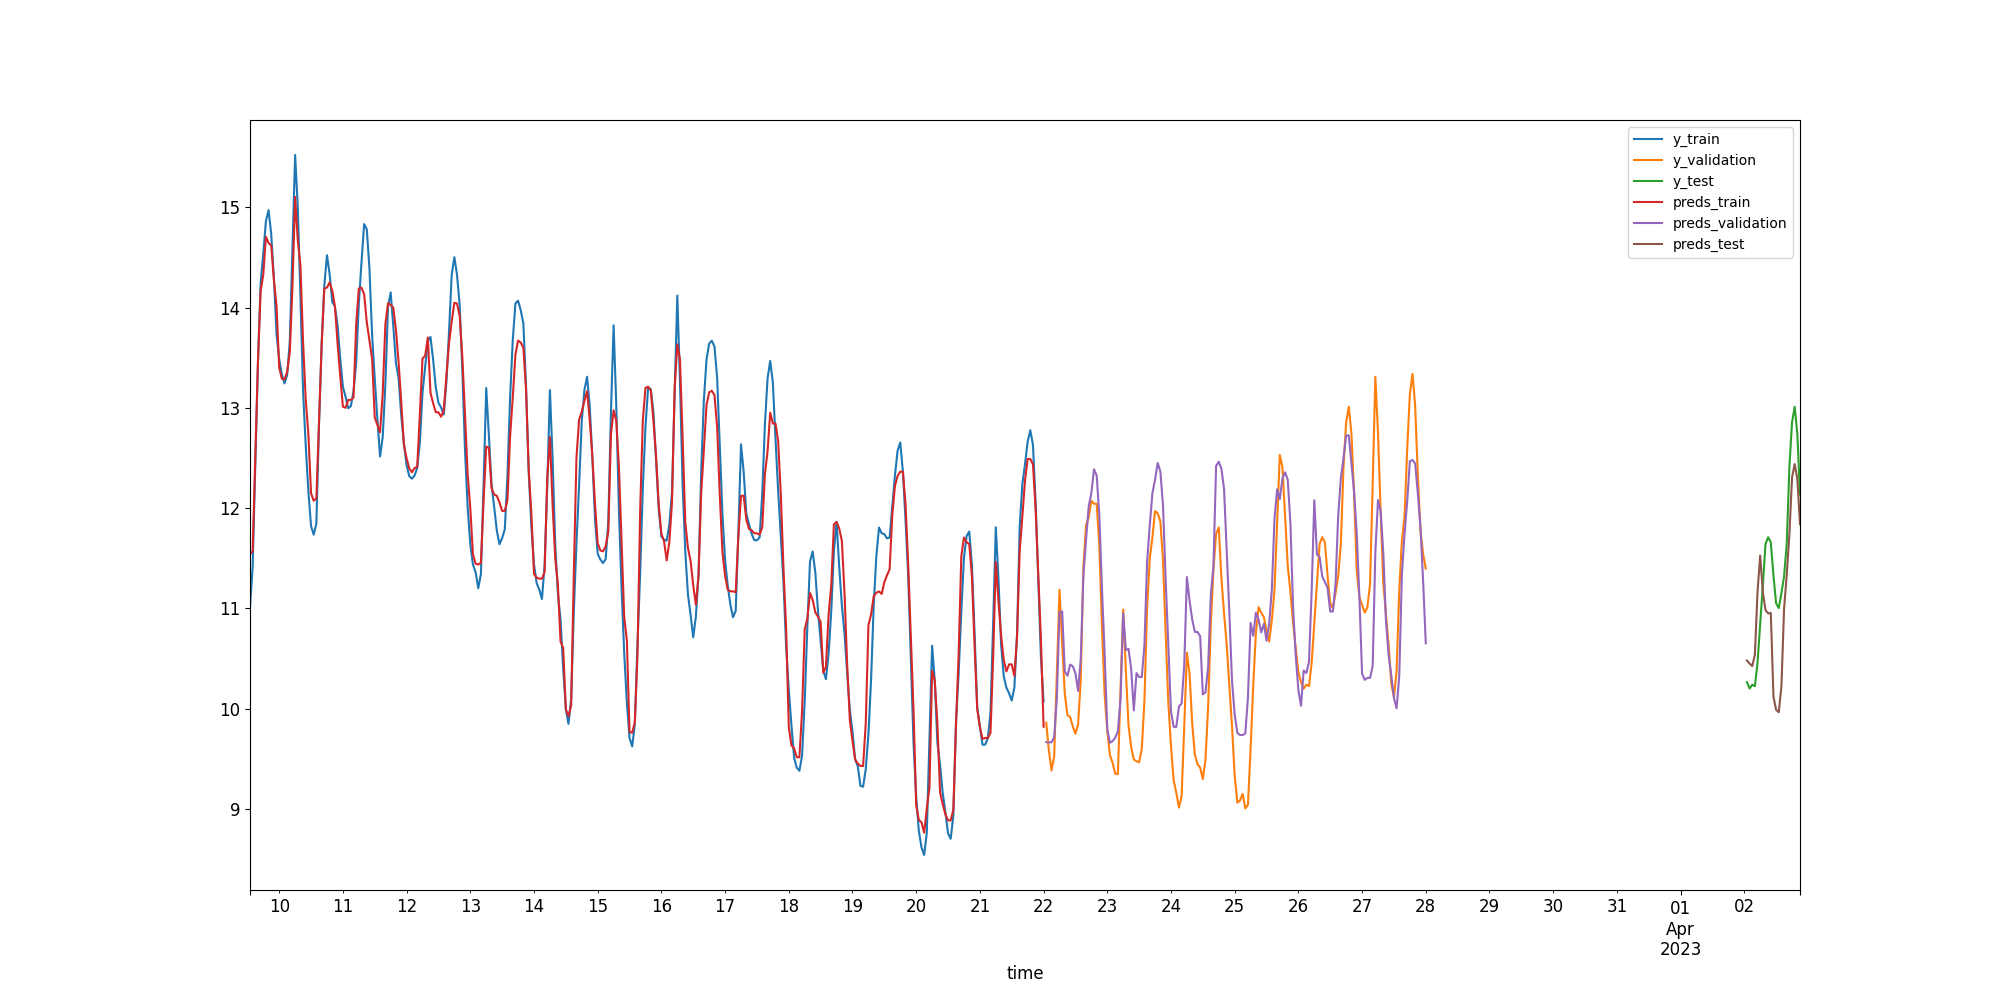
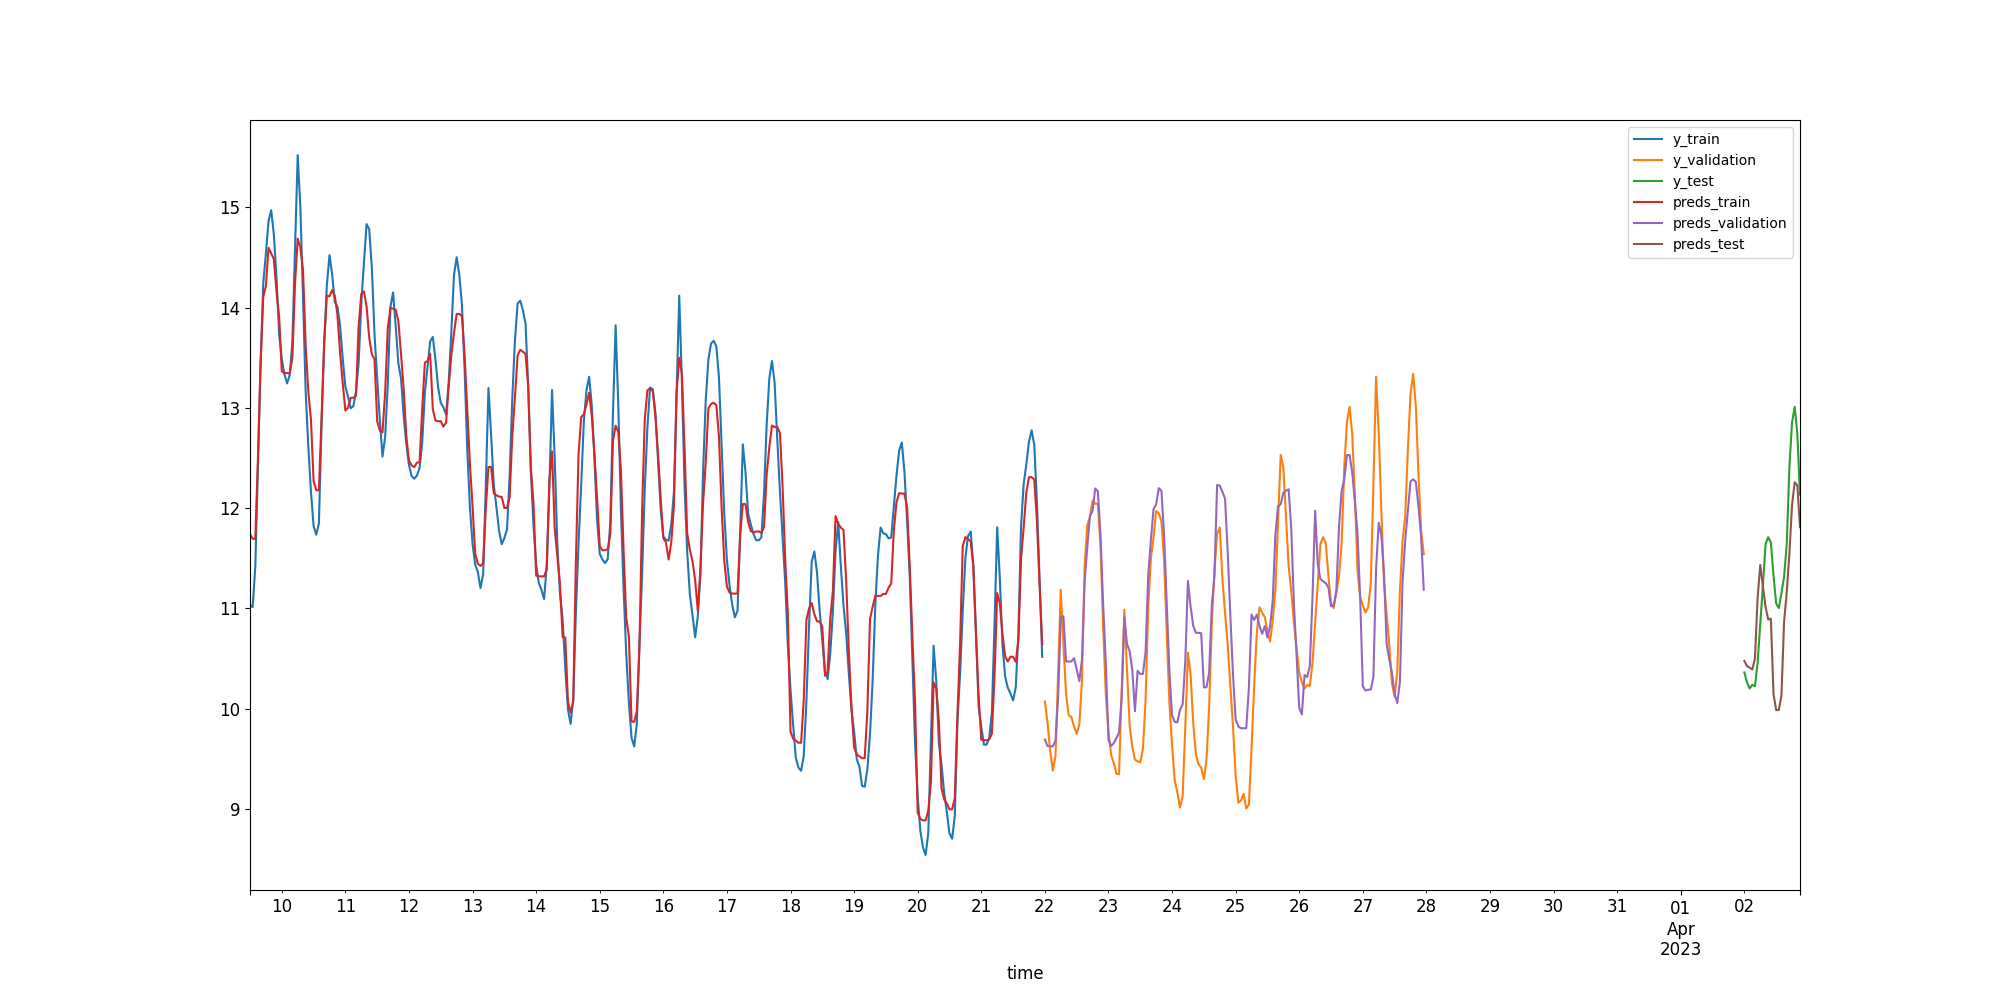
fixed indexing

Changed region(s): [[0.124, 0.186, 0.713, 0.837], [0.868, 0.558, 0.899, 0.62], [0.868, 0.651, 0.899, 0.682]]

diff --git a/scripts/xgboost_forecast copy 2.py b/scripts/xgboost_forecast copy 2.py
@@ -76,15 +76,15 @@ if __name__ == "__main__":
 
         ax = y_train.plot()
         y_validation.plot(ax=ax)
-        y_test[-21:].plot(ax=ax)
+        y_test[-22:].plot(ax=ax)
         train_preds.plot(ax=ax)
         validation_preds.plot(ax=ax)
-        test_preds[-21:].plot(ax=ax)    
+        test_preds[-22:].plot(ax=ax)    
        
-        ax.axvline(y_test.index[-21], color="black", ls="--")
-        ax.axvline(y_test.index[-21-24], color="grey", ls="--")
-        y_test[:-21].plot(ax=ax, alpha=0.2, color='green')
-        test_preds[:-21].plot(ax=ax, alpha=0.2, color='brown')
+        ax.axvline(y_test.index[-22], color="black", ls="--")
+        ax.axvline(y_test.index[-22-24], color="grey", ls="--")
+        y_test[:-22].plot(ax=ax, alpha=0.2, color='green')
+        test_preds[:-22].plot(ax=ax, alpha=0.2, color='brown')
 
         ax.legend(["y_train", "y_validation", "y_test", "preds_train",
                   "preds_validation", "preds_test", 'prediction date', 'present'])

diff --git a/scripts/xgboost_forecast copy.py b/scripts/xgboost_forecast copy.py
@@ -45,7 +45,7 @@ if __name__ == "__main__":
         size = len(df_city.index)
         train_size = 300
         validation_size = 6*24
-        test_size = 1*21
+        test_size = 1*22
 
         train_df = df_city[size-train_size-test_size - (24*5) -
                            validation_size:size-test_size - (24*5) -validation_size]
